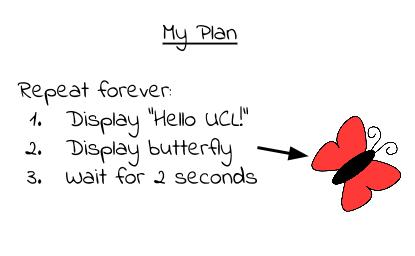
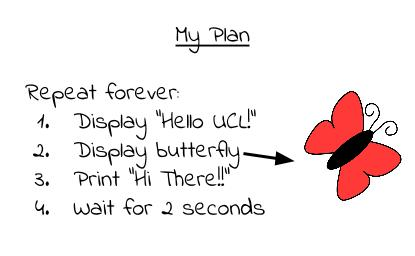
update getting started

diff --git a/docs/source/tutorials/getting_started.rst b/docs/source/tutorials/getting_started.rst
@@ -6,18 +6,18 @@ The BBC micro:bit is a tiny computer that you can use to create all kinds of pro
 the possibilities are endless. Let's take a look at the features that you can use in your designs:
 
  * 25 red LED lights that can flash messages.
- * Two programmable buttons (A and B) that can be used to tell the microbit when to start and stop things.
+ * Two programmable buttons (A and B) that can be used to tell the micro:bit when to start and stop things.
  * A thermistor to measure the temperature.
  * A light sensor to measure the change in light.
  * An accelerometer to detect motion.
  * A magnetometer to tell you which direction you’re heading in.
- * A radio and a Bluetooth connection to interact with other devices.
+ * A radio and a Bluetooth Low Energy connection to interact with other devices.
 
 .. image:: microbit-front-back.jpg
    :scale: 60%
    :align: center
 
-In this tutorial you will create your first micro:bit program; after that, well we've listed a few ideas but it's really up to you.
+Now you will create your first micro:bit program; after that, well we've listed a few ideas but it's really up to you.
 
 Your First Program
 ===================
@@ -49,17 +49,27 @@ Let's go through this line-by-line::
 
 	while True: 
 
-This means do something (whatever follows this statement and is indented) forever and ever and ever. This is called  a loop, it's a bit like a gliffy that's stuck on repeat.  ``True`` and ``False`` have a special meaning in python. ``True`` is always, well ``True``. The rest of the program is straightforward::
+This means do something (whatever follows this statement and is indented) forever and ever and ever. This is called  a loop, it's a bit like a video clip that's stuck on repeat.  ``True`` and ``False`` have a special meaning in python. ``True`` is always, well ``True``. The rest of the program is straightforward::
 
 	from microbit import *
 
 	while True:
     	    display.show('Hello UCL!')
             display.show(Image.BUTTERFLY)
-    
+	    print('Hi There!!!')    
     	    sleep(2000)
       
-This displays ``Hello UCL`` on the LED display one character at a time and then shows the butterfly. You might be wondering why we've asked the 
+This displays ``Hello UCL`` on the LED display one character at a time and then shows the butterfly. 
+The statement ``print('Hi There!!')``, will print the message in the REPL. Press the REPL button in the menu now to show the REPL window:
+
+
+.. image:: mu_repl_button.jpg
+   :scale: 60%
+   :align: center
+
+The REPL window shows us messages from the micro:bit and also allows us to send commands directly to the micro:bit. For now, we'll just be using the REPL to see messages that we print and error messages. 
+
+You might be wondering why we've asked the 
 micro:bit to sleep for ``2000``! This value is in microseconds so we've really only asked it to sleep for 2 seconds. That will give us enough time to see the image before the micro:bit starts all over again.
 
 
@@ -74,7 +84,7 @@ Final checks. Is your micro:bit connected to your computer? Yes? Then press the 
 
 Make a change 
 -------------
-Change the text that is displayed on the screen and make it scroll across the LED display. You can do this by changing the word ``show`` to ``scroll``. Don't forget to save your program and remember to  ``flash`` the new code to the microbit.
+Change the text that is displayed on the screen and make it scroll across the LED display. You can do this by changing the word ``show`` to ``scroll``. Don't forget to save your program and remember to  ``flash`` the new code to the micro:bit.
 
 .. image:: high_five.png
    :scale: 60%
